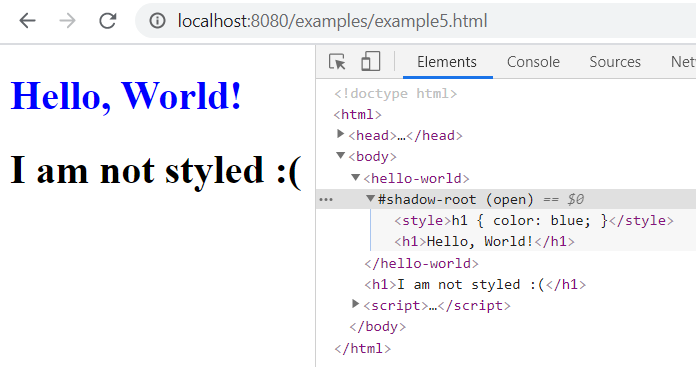
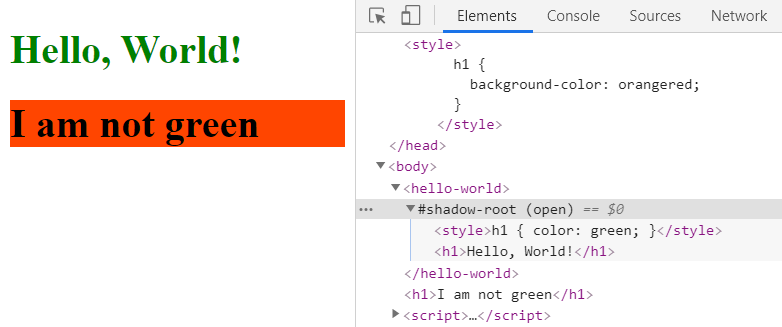
Enhance basic shadow DOM example

diff --git a/examples/example5.html b/examples/example5.html
@@ -3,10 +3,15 @@
   <head>
     <meta charset="utf-8" />
     <title>Example 5</title>
+    <style>
+      h1 {
+        background-color: orangered;
+      }
+    </style>
   </head>
   <body>
     <hello-world></hello-world>
-    <h1>I am not styled :(</h1>
+    <h1>I am not green</h1>
 
     <script>
       class HelloWorld extends HTMLElement {
@@ -15,7 +20,7 @@
 
           this.attachShadow({ mode: 'open' });
           this.shadowRoot.innerHTML = `
-            <style>h1 { color: blue; }</style>
+            <style>h1 { color: green; }</style>
             <h1>Hello, World!</h1>
           `;
         }

diff --git a/slides.md b/slides.md
@@ -347,8 +347,16 @@ Unless it was attached with mode closed.
 ---
 
 ```html
+<style>
+  h1 {
+    background-color: orangered;
+  }
+</style>
+```
+
+```html
 <hello-world></hello-world>
-<h1>I am not styled :(</h1>
+<h1>I am not green</h1>
 ```
 
 ```html
@@ -359,7 +367,7 @@ Unless it was attached with mode closed.
 
       this.attachShadow({ mode: 'open' });
       this.shadowRoot.innerHTML = `
-        <style>h1 { color: blue; }</style>
+        <style>h1 { color: green; }</style>
         <h1>Hello, World!</h1>
       `;
     }
@@ -379,7 +387,9 @@ Here is an example of a custom element that attaches shadow DOM to itself, encap
 Notes:
 This gives pretty much the same as the first hello world example with custom elements,
 but here the component content appears in the element shadow DOM.
-And the style of h1 elements is scopped to the hello world shadow DOM.
+The orangered background color defined at document level does not traverse the shadow DOM,
+And is not applied to the hello world component.
+In the other hand, the green text color is scopped to the hello world shadow DOM.
 
 ---
 
